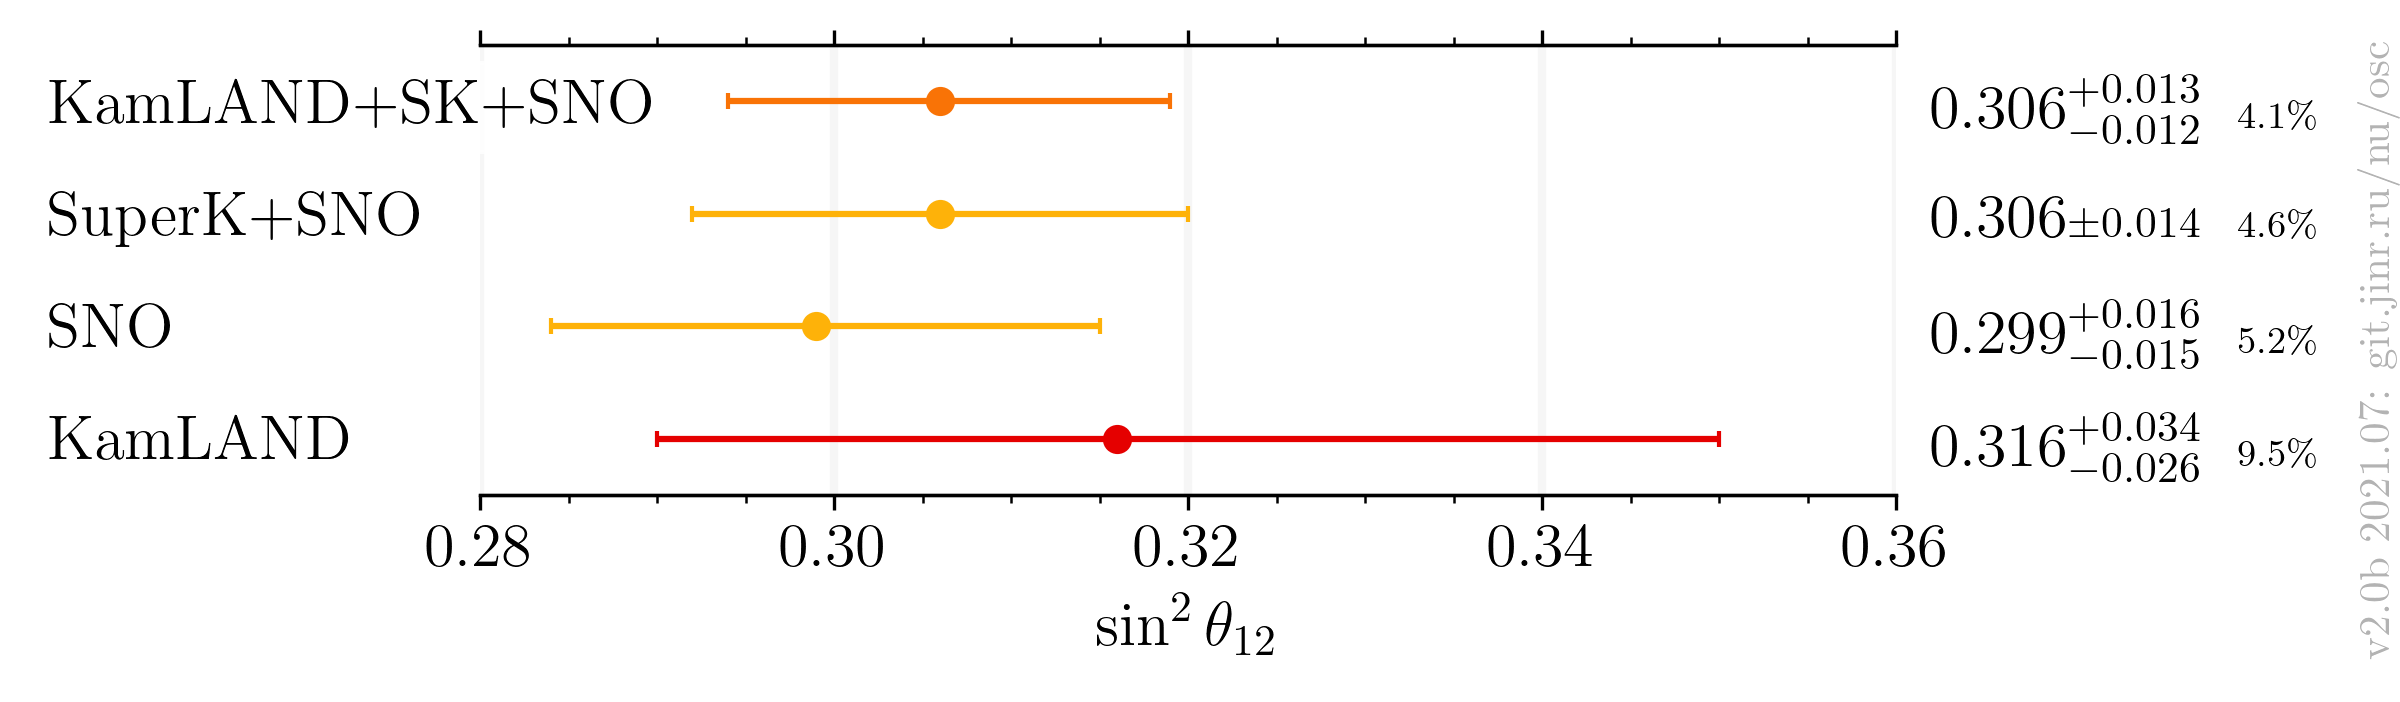
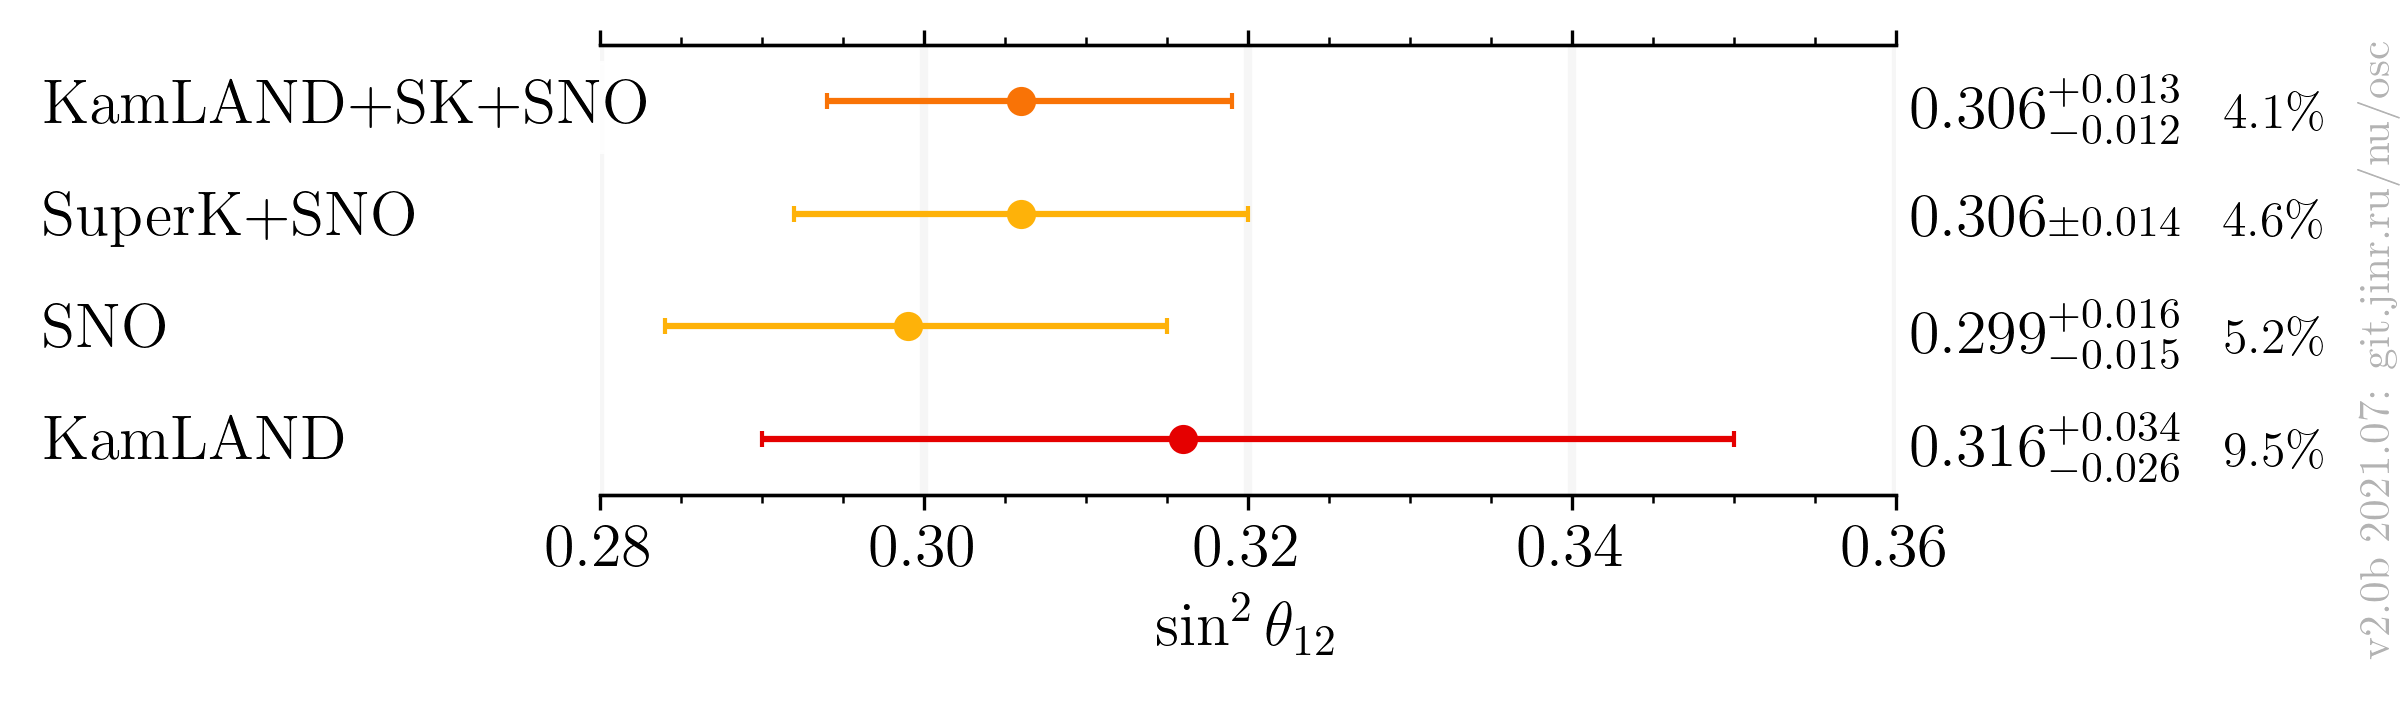
theta12: clean

diff --git a/samples/theta12/theta12-v2.0-future/theta12.py b/samples/theta12/theta12-v2.0-future/theta12.py
@@ -30,12 +30,16 @@ def main(args):
     # Load
     #
     result = np.loadtxt(args.input, dtype=dtype1, skiprows=1, usecols=range(10))
-    result = result[::-1]
     if args.exclude:
         mask = [all(pattern not in res['type'] and pattern not in res['measurement'] for pattern in args.exclude) for res in result]
         result = result[mask]
+    result = result[::-1]
     nitems = len(result)
-    digits_max = result['digits'].max()
+    digits_decimal_max = result['digits'].max()
+    line_place = sum(item['measurement'] == 'estimation' for item in result)
+
+    logs10 = ceil_from_zero(np.log10(result['value']))
+    digits_leading_max = int(max(1.0, *logs10))
 
     #
     # Figure
@@ -77,7 +81,7 @@ def main(args):
         name = name.replace('_', ' ')
         exp_name.append(names.get(name, name))
 
-        latex = format_latex(digits, value, left, right, digits_max)
+        latex = format_latex(digits, value, left, right, digits_leading_max, digits_decimal_max)
         latex_text.append(latex)
     values=np.array(values)
     val_median = np.median(values)
@@ -99,7 +103,7 @@ def main(args):
     ax_right_right = ax.twinx()
     ax_right_right.set_ylim(ax.get_ylim())
     ax.tick_params(axis='y', which='both', left=False)
-    ax_right_right.tick_params(axis='y', which='both', direction='out', left=False, labelleft=False, right=False, labelright=True, pad=5)
+    ax_right_right.tick_params(axis='y', which='both', direction='out', left=False, labelleft=False, right=False, labelright=True, pad=2)
     ax_right_right.set_yticks(yticks)
     ax_right_right.set_yticklabels(latex_text, ha='left')
 
@@ -128,34 +132,51 @@ def main(args):
     if args.show:
         plt.show()
 
-def format_latex(digits, value, left, right, digits_max):
-    if digits<digits_max:
-        extra = '0'*(digits_max-digits)
-        extra = f'\\phantom{{{extra}}}'
-    else:
-        extra = ''
+def ceil_from_zero(nums):
+    nums = np.asanyarray(nums)
+    nums[nums<0] = np.floor(nums[nums<0])
+    nums[nums>0] = np.ceil(nums[nums>0])
+    return nums
+
+def phantom_zeros(num, num_max):
+    if num>=num_max:
+        return ''
+
+    extra = '0'*(num_max-num)
+    # return extra
+    # return f'{{\color{{red}}{extra}}}'
+    return f'\phantom{{{extra}}}'
+
+def format_latex(digits_decimal, value, left, right, digits_leading_max, digits_decimal_max):
+    digits_leading = max(0, int(ceil_from_zero(np.log10(value))))
+
+    zeros_leading = phantom_zeros(digits_leading, digits_leading_max)
+    zeros_decimal = phantom_zeros(digits_decimal, digits_decimal_max)
+
+    # print(f'{value=:.6f} {digits_decimal=} {digits_leading=} {digits_leading_max=} {digits_decimal_max=} {zeros_leading=} {zeros_decimal=}')
 
     span = right+left
     relsigma = 100*0.5*span/value
 
-    value = f'{value:.{digits}f}'
-    left = f'{left:.{digits}f}'
-    right = f'{right:.{digits}f}'
+    value = f'{value:.{digits_decimal}f}'
+    left = f'{left:.{digits_decimal}f}'
+    right = f'{right:.{digits_decimal}f}'
+
+    the_value = f'{zeros_leading}{value}{zeros_decimal}'
+    if left==right:
+        the_error = f'{{\\scriptstyle\\pm{left}{zeros_decimal}}}'
+    else:
+        the_error = f'^{{+{right}{zeros_decimal}}}_{{-{left}{zeros_decimal}}}'
 
     width1_rel='24mm'
-    width2_rel='11mm'
-    box1 = f'\\makebox[{width1_rel}]{{', r'\hfill}'
-    box2 = f'\\makebox[{width2_rel}]{{', r'\hfill}'
+    width2_rel='13mm'
+    ret = [
+            f'\\makebox[{width1_rel}]{{\\hspace*{{\\fill}}${the_value}{the_error}$}}',
+            f'\\makebox[{width2_rel}]{{\\hspace*{{\\fill}}\\relsize{{-1}}{relsigma:.1f}\\%}}'
+          ]
 
-    ret=''
-    if left==right:
-        ret = f'{box1[0]}${value}{extra}{{\\scriptstyle\\pm{left}}}${box1[1]}'
-    else:
-        ret = f'{box1[0]}${value}{extra}^{{+{right}}}_{{-{left}}}${box1[1]}'
-
-    ret+=f'{box2[0]}\\hspace{{\\fill}}\\small{relsigma:.1f}\\%{box2[1]}'
-
-    return ret
+    # return ''.join(f'\\fbox{{{s}}}' for s in ret)
+    return ''.join(ret)
 
 if __name__ == '__main__':
     parser = ArgumentParser()

diff --git a/samples/theta12/theta12-v2.0-future/style.py b/samples/theta12/theta12-v2.0-future/style.py
@@ -17,8 +17,8 @@ colors = {
 
 names = {
 	'Super-Kamiokande': 'SuperK+SNO',
-	'JUNO solar':   r'\textbf{JUNO} {\relscale{0.75}\SunshineOpenCircled}+SNO(NC) \hspace{9cm}\relsize{-2}(expected)',
-	'JUNO reactor': r'\textbf{JUNO} \Radioactivity{} \relsize{-2}(expected)'
+	'JUNO solar':   r'JUNO {\relscale{0.75}\SunshineOpenCircled}+SNO(NC) \hspace{9cm}\relsize{-2}(expected)',
+	'JUNO reactor': r'JUNO \Radioactivity{} \relsize{-2}(expected)'
 	}
 
 preamble = r'\usepackage{bbding}\let\Cross\undefined\usepackage{marvosym}\usepackage{relsize}'

diff --git a/samples/theta12/theta12-v2.0-future/plots/Readme.md b/samples/theta12/theta12-v2.0-future/plots/Readme.md
@@ -10,9 +10,14 @@
     - [SNO](data/sno_2020-07-neutrino2020.yaml)
     - [NuFIT 5.0](data/theor_nufit_2020-07-post-neutrino2020.yaml)
     - [Forero et al.](data/theor_forero_2020-06-pre-neutrino2020.yaml)
-    - [JUNO] TBD
+    - JUNO estimation:
+        * [JUNO Yellow Book](data/juno_future_2015-07-reactor.yaml)
+        * [JUNO Solar ⁸B](data/juno_future_2020-06-solar.yaml)
+- Updates:
+    * Add JUNO estimation for solar and reactor neutrinos
 - Cross checks by:
     * @maxfl
+    * @ldkolupaeva
 - Notes:
     * Forero et al. is pre-Neutrino fit
     * $`\tan^2 \theta_{12}`$ to $`\sin^2 \theta_{12}`$ conversion: